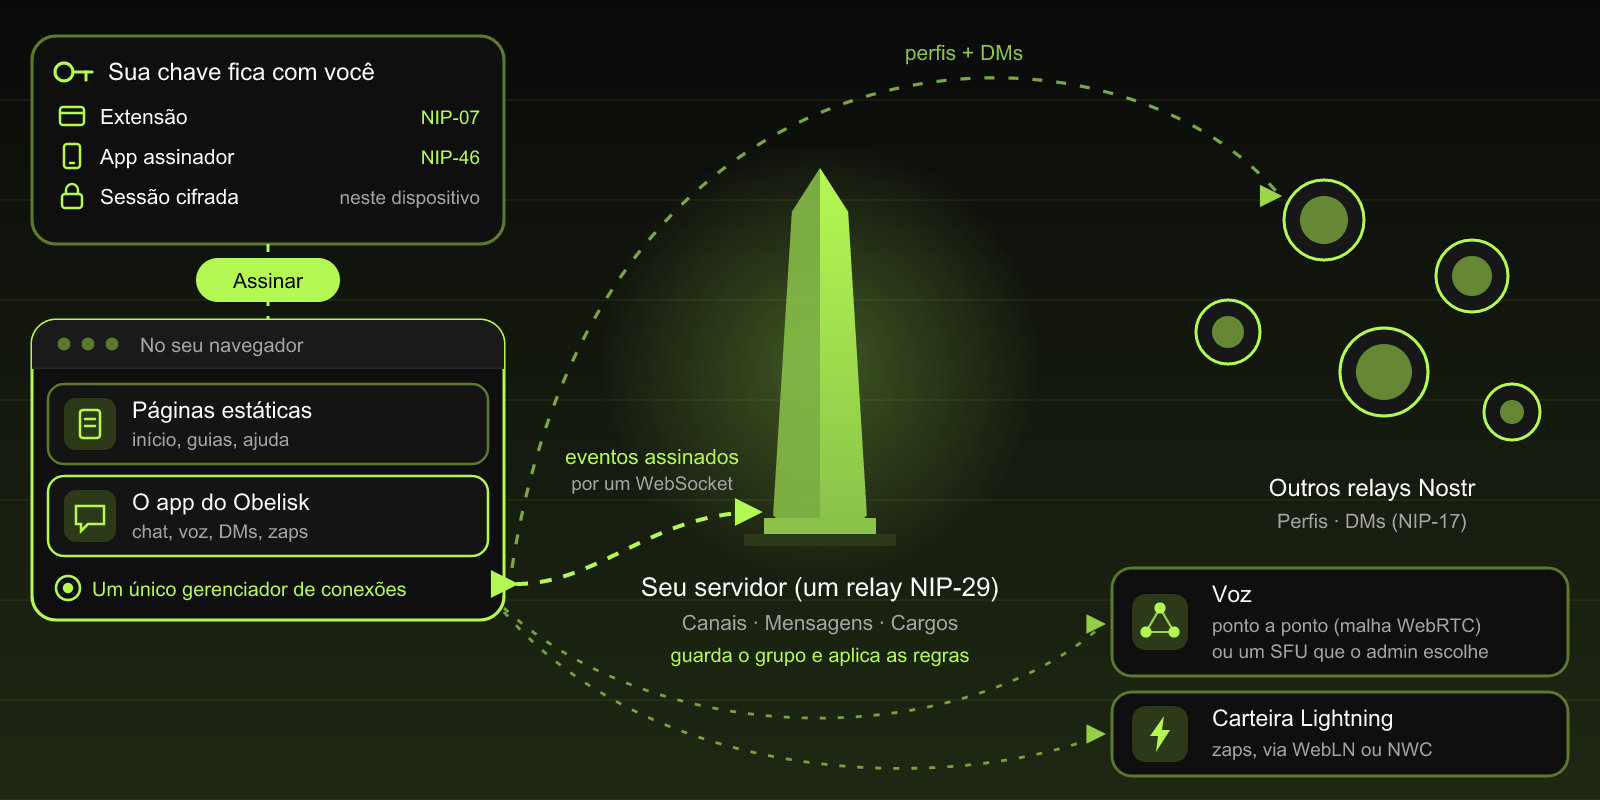
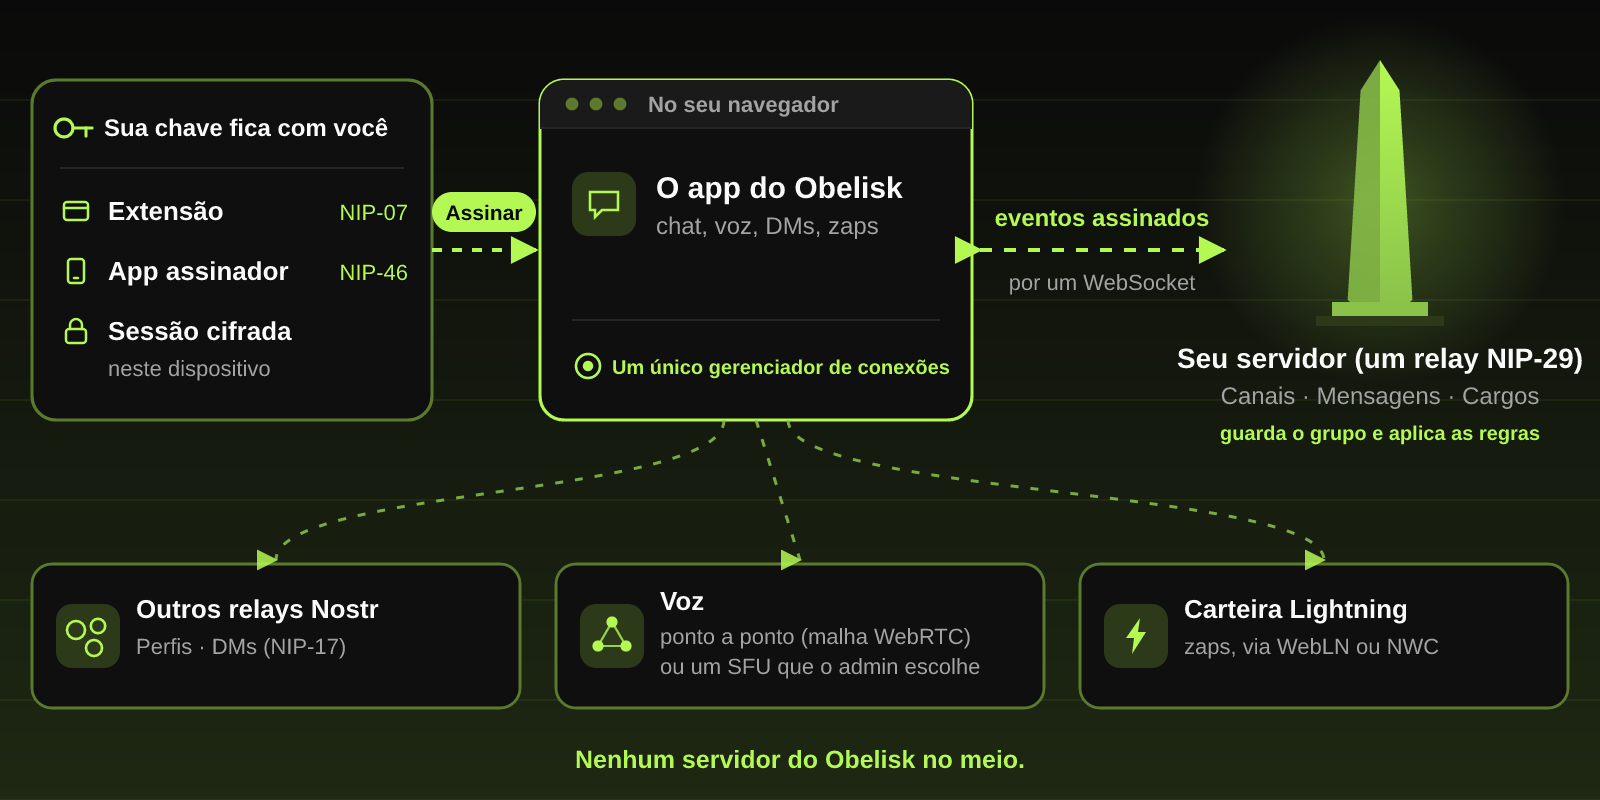
Guides: a clearer How Obelisk works diagram
Three columns read left to right (your key, signing, the app in your
browser, signed events over a WebSocket, your NIP-29 relay), what the app
reaches on its own in one row below (other relays, voice, the wallet), and
'No Obelisk server in between' spelled out. Labels at 10-15 px instead of
9-10.5, fitted in English, Spanish and Portuguese; the static-pages row and
the profiles curve are gone. Snapshots regenerated for the three languages
with an Arial-metric font, like the other guide images.

diff --git a/src/assets/illustrations/guides/heroes/HowObeliskWorksHero.tsx b/src/assets/illustrations/guides/heroes/HowObeliskWorksHero.tsx
@@ -52,42 +52,39 @@ export default function HowObeliskWorksHero() {
         ))}
       </g>
 
-      <ServerRelay />
       <KeyCard />
       <BrowserApp />
+      <ServerRelay />
       <Elsewhere />
 
+      {/* key -> app: the key signs, the app never holds it */}
+      <line x1="216" y1="125" x2="268" y2="125" stroke="#b4f953" strokeWidth="2" strokeDasharray="5 5"
+        className="animate-dash-flow" markerEnd="url(#how-arrow)" />
+      <rect x="216" y="96" width="52" height="20" rx="10" fill="#b4f953" />
+      <text x="242" y="110" textAnchor="middle" fontSize="10.5" fontWeight="700" fill="#0a0a0a">
+        {t('guides.art.howObeliskWorks.sign')}
+      </text>
+
       {/* app <-> server: signed events, straight over a WebSocket */}
-      <path
-        d="M258 292 C 300 292, 326 256, 380 256"
-        stroke="#b4f953" strokeWidth="2" fill="none" strokeDasharray="6 6"
-        className="animate-dash-flow"
-        markerStart="url(#how-arrow)" markerEnd="url(#how-arrow)"
-      />
-      <text x="326" y="232" textAnchor="middle" fontSize="10.5" fontWeight="700" fill="#b4f953">
+      <line x1="490" y1="125" x2="612" y2="125" stroke="#b4f953" strokeWidth="2" strokeDasharray="6 6"
+        className="animate-dash-flow" markerStart="url(#how-arrow)" markerEnd="url(#how-arrow)" />
+      <text x="551" y="113" textAnchor="middle" fontSize="12" fontWeight="700" fill="#b4f953">
         {t('guides.art.howObeliskWorks.flowSigned')}
       </text>
-      <text x="326" y="245" textAnchor="middle" fontSize="9.5" fill="#a3a3a3">
+      <text x="551" y="145" textAnchor="middle" fontSize="11" fill="#a3a3a3">
         {t('guides.art.howObeliskWorks.flowSocket')}
       </text>
 
-      {/* app -> other relays: the app fetches profiles and DMs itself */}
-      <path
-        d="M256 284 C 300 0, 560 0, 640 98"
-        stroke="#8bc34a" strokeWidth="1.6" fill="none" strokeDasharray="5 7" opacity="0.85"
-        className="animate-dash-flow"
-        style={{ animationDuration: '3s' } as React.CSSProperties}
-        markerEnd="url(#how-arrow)"
-      />
-      <text x="482" y="30" textAnchor="middle" fontSize="10.5" fontWeight="700" fill="#8bc34a">
-        {t('guides.art.howObeliskWorks.flowProfile')}
-      </text>
-
-      {/* app -> voice and wallet, outside the relays */}
-      <g stroke="#8bc34a" strokeWidth="1.4" fill="none" strokeDasharray="3 6" opacity="0.8">
-        <path d="M252 304 C 330 376, 480 376, 552 312" className="animate-dash-flow" markerEnd="url(#how-arrow)" />
-        <path d="M252 306 C 330 396, 480 396, 552 367" className="animate-dash-flow" markerEnd="url(#how-arrow)" />
+      {/* app -> what it reaches on its own: other relays, voice, the wallet */}
+      <g stroke="#8bc34a" strokeWidth="1.5" fill="none" strokeDasharray="4 6" opacity="0.85">
+        <path d="M362 210 C 362 248, 138 244, 138 280" className="animate-dash-flow" markerEnd="url(#how-arrow)" />
+        <path d="M378 210 L 400 280" className="animate-dash-flow" markerEnd="url(#how-arrow)" />
+        <path d="M394 210 C 394 248, 662 244, 662 280" className="animate-dash-flow" markerEnd="url(#how-arrow)" />
       </g>
+
+      <text x="400" y="384" textAnchor="middle" fontSize="12.5" fontWeight="700" fill="#b4f953">
+        {t('guides.art.howObeliskWorks.noServer')}
+      </text>
     </svg>
   );
 }

diff --git a/src/assets/illustrations/guides/how-it-works/BrowserApp.tsx b/src/assets/illustrations/guides/how-it-works/BrowserApp.tsx
@@ -1,39 +1,46 @@
 import { useTranslations } from 'next-intl';
-import BrowserAppRow from './BrowserAppRow';
+import BrowserRowGlyph from './BrowserRowGlyph';
 
 const DIM = '#5c7a2e';
 
 /**
- * The Obelisk web app as it runs: one browser window holding the static
- * pages and the app, and the app's one connection manager (the RelayHub),
- * which owns every relay socket the page opens.
+ * The Obelisk web app as it runs: a browser window holding the app, and the
+ * app's one connection manager (the RelayHub), which owns every relay socket
+ * the page opens.
  */
 export default function BrowserApp() {
   const t = useTranslations();
 
   return (
     <g>
-      <rect x="16" y="160" width="236" height="150" rx="12" fill="#0f0f0f" stroke="#b4f953" strokeWidth="1.6" />
-      <path d="M16 184 V172 a12 12 0 0 1 12 -12 H240 a12 12 0 0 1 12 12 V184 Z" fill="#1a1a1a" />
-      <line x1="16" y1="184" x2="252" y2="184" stroke="#262626" strokeWidth="1" />
-      {[32, 44, 56].map((cx) => (
-        <circle key={cx} cx={cx} cy="172" r="3.2" fill={DIM} />
+      <rect x="270" y="40" width="216" height="170" rx="12" fill="#0f0f0f" stroke="#b4f953" strokeWidth="1.6" />
+      <path d="M270 64 V52 a12 12 0 0 1 12 -12 H474 a12 12 0 0 1 12 12 V64 Z" fill="#1a1a1a" />
+      <line x1="270" y1="64" x2="486" y2="64" stroke="#262626" strokeWidth="1" />
+      {[286, 298, 310].map((cx) => (
+        <circle key={cx} cx={cx} cy="52" r="3.2" fill={DIM} />
       ))}
-      <text x="70" y="176" fontSize="10" fontWeight="600" fill="#a3a3a3">
+      <text x="324" y="56" fontSize="11" fontWeight="600" fill="#a3a3a3">
         {t('guides.art.howObeliskWorks.browser')}
       </text>
 
-      <BrowserAppRow y={192} title={t('guides.art.howObeliskWorks.pages')} sub={t('guides.art.howObeliskWorks.pagesSub')} glyph="page" />
-      <BrowserAppRow y={238} title={t('guides.art.howObeliskWorks.app')} sub={t('guides.art.howObeliskWorks.appSub')} glyph="chat" lit />
+      <rect x="286" y="86" width="32" height="32" rx="8" fill="#2d3a1a" />
+      <BrowserRowGlyph x={302} y={101} />
+      <text x="328" y="99" fontSize="15" fontWeight="700" fill="#fafafa">
+        {t('guides.art.howObeliskWorks.app')}
+      </text>
+      <text x="328" y="117" fontSize="12" fill="#a3a3a3">
+        {t('guides.art.howObeliskWorks.appSub')}
+      </text>
 
       {/* the connection manager every relay request goes through */}
-      <circle cx="34" cy="294" r="6" fill="none" stroke="#b4f953" strokeWidth="1.3" />
+      <line x1="286" y1="160" x2="470" y2="160" stroke="#262626" strokeWidth="1" />
+      <circle cx="294" cy="183" r="6" fill="none" stroke="#b4f953" strokeWidth="1.3" />
       <circle
-        cx="34" cy="294" r="2.6" fill="#b4f953"
+        cx="294" cy="183" r="2.6" fill="#b4f953"
         className="animate-dot-pulse"
-        style={{ transformOrigin: '34px 294px' } as React.CSSProperties}
+        style={{ transformOrigin: '294px 183px' } as React.CSSProperties}
       />
-      <text x="46" y="298" fontSize="10" fontWeight="700" fill="#b4f953">
+      <text x="306" y="187" fontSize="10" fontWeight="700" fill="#b4f953">
         {t('guides.art.howObeliskWorks.hub')}
       </text>
     </g>

diff --git a/src/assets/illustrations/guides/how-it-works/Elsewhere.tsx b/src/assets/illustrations/guides/how-it-works/Elsewhere.tsx
@@ -1,15 +1,8 @@
 import { useTranslations } from 'next-intl';
 import ElsewherePill from './ElsewherePill';
+import RelaysGlyph from './RelaysGlyph';
 import VoiceGlyph from './VoiceGlyph';
 import BoltGlyph from './BoltGlyph';
-
-const RELAYS = [
-  { cx: 662, cy: 110, r: 20 },
-  { cx: 736, cy: 138, r: 18 },
-  { cx: 692, cy: 186, r: 22 },
-  { cx: 614, cy: 166, r: 16 },
-  { cx: 756, cy: 206, r: 14 },
-];
 
 /**
  * What the app reaches on its own, beside the group's server: other Nostr
@@ -18,34 +11,22 @@ const RELAYS = [
  */
 export default function Elsewhere() {
   const t = useTranslations();
-
+  const head = { fontSize: 13, fontWeight: 700, fill: '#fafafa' };
+  const sub = { fontSize: 11, fill: '#a3a3a3' };
   return (
     <g>
-      {RELAYS.map((n, i) => (
-        <g key={i}>
-          <circle cx={n.cx} cy={n.cy} r={n.r} fill="#171717" stroke="#b4f953" strokeWidth="1.5" />
-          <circle
-            cx={n.cx} cy={n.cy} r={n.r - 8} fill="#b4f953" opacity="0.5"
-            className="animate-dot-pulse"
-            style={{ transformOrigin: `${n.cx}px ${n.cy}px`, animationDelay: `${i * 0.4}s` } as React.CSSProperties}
-          />
-        </g>
-      ))}
-      <text x="686" y="248" textAnchor="middle" fontSize="12" fontWeight="700" fill="#fafafa">
-        {t('guides.art.howObeliskWorks.relays')}
-      </text>
-      <text x="686" y="264" textAnchor="middle" fontSize="10" fill="#a3a3a3">
-        {t('guides.art.howObeliskWorks.relayRoles')}
-      </text>
-
-      <ElsewherePill y={284} h={54} icon={<VoiceGlyph />}>
-        <text x="606" y="301" fontSize="11.5" fontWeight="700" fill="#fafafa">{t('guides.art.howObeliskWorks.voice')}</text>
-        <text x="606" y="316" fontSize="9.5" fill="#a3a3a3">{t('guides.art.howObeliskWorks.voiceMesh')}</text>
-        <text x="606" y="329" fontSize="9.5" fill="#a3a3a3">{t('guides.art.howObeliskWorks.voiceSfu')}</text>
+      <ElsewherePill x={16} w={244} icon={<RelaysGlyph />}>
+        <text x="68" y="309" {...head}>{t('guides.art.howObeliskWorks.relays')}</text>
+        <text x="68" y="327" {...sub}>{t('guides.art.howObeliskWorks.relayRoles')}</text>
       </ElsewherePill>
-      <ElsewherePill y={346} h={42} icon={<BoltGlyph />}>
-        <text x="606" y="363" fontSize="11.5" fontWeight="700" fill="#fafafa">{t('guides.art.howObeliskWorks.wallet')}</text>
-        <text x="606" y="378" fontSize="9.5" fill="#a3a3a3">{t('guides.art.howObeliskWorks.walletDoes')}</text>
+      <ElsewherePill x={278} w={244} icon={<VoiceGlyph />}>
+        <text x="330" y="305" {...head}>{t('guides.art.howObeliskWorks.voice')}</text>
+        <text x="330" y="322" {...sub}>{t('guides.art.howObeliskWorks.voiceMesh')}</text>
+        <text x="330" y="337" {...sub}>{t('guides.art.howObeliskWorks.voiceSfu')}</text>
+      </ElsewherePill>
+      <ElsewherePill x={540} w={244} icon={<BoltGlyph />}>
+        <text x="592" y="309" {...head}>{t('guides.art.howObeliskWorks.wallet')}</text>
+        <text x="592" y="327" {...sub}>{t('guides.art.howObeliskWorks.walletDoes')}</text>
       </ElsewherePill>
     </g>
   );

diff --git a/src/assets/illustrations/guides/how-it-works/KeyCard.tsx b/src/assets/illustrations/guides/how-it-works/KeyCard.tsx
@@ -1,40 +1,32 @@
 import { useTranslations } from 'next-intl';
-import KeyCardRow from './KeyCardRow';
 import KeyGlyph from './KeyGlyph';
+import KeyCardRow from './KeyCardRow';
 
 const DIM = '#5c7a2e';
 
 /**
  * Where the key lives: never on a server. A browser extension (NIP-07), a
  * signer app over NIP-46, or the encrypted session on this device (an nsec
- * sealed by the session vault). The "Sign" step happens here, for the app.
+ * sealed by the session vault).
  */
 export default function KeyCard() {
   const t = useTranslations();
-  const mono = { fontSize: 9.5, fill: '#b4f953', fontFamily: 'monospace', textAnchor: 'end' as const };
-
+  const mono = { fontSize: 11, fill: '#b4f953', fontFamily: 'monospace', textAnchor: 'end' as const };
   return (
     <g>
-      <rect x="16" y="18" width="236" height="104" rx="12" fill="#0f0f0f" stroke={DIM} strokeWidth="1.6" />
-      <KeyGlyph x={36} y={36} />
-      <text x="54" y="40" fontSize="12" fontWeight="700" fill="#fafafa">
+      <rect x="16" y="40" width="200" height="170" rx="12" fill="#0f0f0f" stroke={DIM} strokeWidth="1.6" />
+      <KeyGlyph x={36} y={64} />
+      <text x="52" y="68" fontSize="12" fontWeight="700" fill="#fafafa">
         {t('guides.art.howObeliskWorks.key')}
       </text>
-
-      <KeyCardRow y={62} glyph="ext" label={t('guides.art.howObeliskWorks.extension')} />
-      <text x="240" y="62" {...mono}>NIP-07</text>{/* i18n-exempt: protocol name */}
-      <KeyCardRow y={82} glyph="phone" label={t('guides.art.howObeliskWorks.signerApp')} />
-      <text x="240" y="82" {...mono}>NIP-46</text>{/* i18n-exempt: protocol name */}
-      <KeyCardRow y={102} glyph="lock" label={t('guides.art.howObeliskWorks.session')} />
-      <text x="240" y="102" textAnchor="end" fontSize="9.5" fill="#a3a3a3">
+      <line x1="30" y1="84" x2="202" y2="84" stroke="#262626" strokeWidth="1" />
+      <KeyCardRow y={110} glyph="ext" label={t('guides.art.howObeliskWorks.extension')} />
+      <text x="204" y="110" {...mono}>NIP-07</text>{/* i18n-exempt: protocol name */}
+      <KeyCardRow y={140} glyph="phone" label={t('guides.art.howObeliskWorks.signerApp')} />
+      <text x="204" y="140" {...mono}>NIP-46</text>{/* i18n-exempt: protocol name */}
+      <KeyCardRow y={170} glyph="lock" label={t('guides.art.howObeliskWorks.session')} />
+      <text x="54" y="188" fontSize="11" fill="#a3a3a3">
         {t('guides.art.howObeliskWorks.sessionSub')}
-      </text>
-
-      {/* the key signs for the app below */}
-      <line x1="134" y1="122" x2="134" y2="160" stroke="#b4f953" strokeWidth="1.6" strokeDasharray="4 5" className="animate-dash-flow" />
-      <rect x="98" y="129" width="72" height="22" rx="11" fill="#b4f953" />
-      <text x="134" y="144" textAnchor="middle" fontSize="10.5" fontWeight="700" fill="#0a0a0a">
-        {t('guides.art.howObeliskWorks.sign')}
       </text>
     </g>
   );

diff --git a/src/assets/illustrations/guides/how-it-works/ServerRelay.tsx b/src/assets/illustrations/guides/how-it-works/ServerRelay.tsx
@@ -4,32 +4,32 @@ import { useTranslations } from 'next-intl';
  * The community's server, drawn as the Obelisco: in Obelisk the "server"
  * (what the app's Server settings configure) is the NIP-29 relay itself. It
  * stores the channels, messages and roles and enforces the group's rules.
- * The silhouette's paths match src/components/ObeliskIcon.tsx; the 512 viewBox
- * is scaled so the tip sits at (410, 84) and the base at (410, 259).
+ * The silhouette's paths match src/assets/brand/ObeliskIcon.tsx; the 512
+ * viewBox is scaled so the tip sits at (690, 30) and the base at (690, 151).
  */
 export default function ServerRelay() {
   const t = useTranslations();
 
   return (
     <g>
-      <circle cx="410" cy="180" r="110" fill="url(#how-server-glow)"
+      <circle cx="690" cy="100" r="92" fill="url(#how-server-glow)"
         className="animate-glow-pulse"
-        style={{ transformOrigin: '410px 180px', transformBox: 'fill-box' } as React.CSSProperties}
+        style={{ transformOrigin: '690px 100px', transformBox: 'fill-box' } as React.CSSProperties}
       />
-      <g transform="translate(309.9 77.7) scale(0.391)">
+      <g transform="translate(620.9 25.7) scale(0.27)">
         <path d="M 256,16 L 220,72 L 196,460 L 200,464 L 256,464 L 256,72 Z" fill="#8bc34a" opacity="0.85" />
         <path d="M 256,16 L 292,72 L 316,460 L 312,464 L 256,464 L 256,72 Z" fill="url(#how-obelisk-body)" />
       </g>
-      <rect x="382" y="259" width="56" height="8" fill="#8bc34a" />
-      <rect x="372" y="267" width="76" height="6" fill="#2d3a1a" />
+      <rect x="666" y="151" width="48" height="7" fill="#8bc34a" />
+      <rect x="658" y="158" width="64" height="5" fill="#2d3a1a" />
 
-      <text x="410" y="298" textAnchor="middle" fontSize="13" fontWeight="700" fill="#fafafa">
+      <text x="690" y="184" textAnchor="middle" fontSize="14" fontWeight="700" fill="#fafafa">
         {t('guides.art.howObeliskWorks.server')}
       </text>
-      <text x="410" y="315" textAnchor="middle" fontSize="10.5" fill="#a3a3a3">
+      <text x="690" y="202" textAnchor="middle" fontSize="12" fill="#a3a3a3">
         {t('guides.art.howObeliskWorks.serverRoles')}
       </text>
-      <text x="410" y="331" textAnchor="middle" fontSize="10" fontWeight="600" fill="#b4f953">
+      <text x="690" y="220" textAnchor="middle" fontSize="10" fontWeight="600" fill="#b4f953">
         {t('guides.art.howObeliskWorks.serverDoes')}
       </text>
     </g>

diff --git a/src/assets/illustrations/guides/how-it-works/ElsewherePill.tsx b/src/assets/illustrations/guides/how-it-works/ElsewherePill.tsx
@@ -2,14 +2,13 @@ import type { ReactNode } from 'react';
 
 const DIM = '#5c7a2e';
 
-/** A rounded card on the right: an icon tile and the lines passed in as children. */
-export default function ElsewherePill({ y, h, icon, children }: { y: number; h: number; icon: ReactNode; children: ReactNode }) {
-  const cy = y + h / 2;
+/** A card in the bottom row: an icon tile and the lines passed in as children. */
+export default function ElsewherePill({ x, w, icon, children }: { x: number; w: number; icon: ReactNode; children: ReactNode }) {
   return (
     <g>
-      <rect x="556" y={y} width="228" height={h} rx="10" fill="#0f0f0f" stroke={DIM} strokeWidth="1.4" />
-      <rect x="566" y={cy - 14} width="28" height="28" rx="7" fill="#2d3a1a" />
-      <g transform={`translate(580 ${cy})`}>{icon}</g>
+      <rect x={x} y="282" width={w} height="72" rx="10" fill="#0f0f0f" stroke={DIM} strokeWidth="1.4" />
+      <rect x={x + 12} y="302" width="32" height="32" rx="8" fill="#2d3a1a" />
+      <g transform={`translate(${x + 28} 318)`}>{icon}</g>
       {children}
     </g>
   );

diff --git a/src/assets/illustrations/guides/how-it-works/BrowserRowGlyph.tsx b/src/assets/illustrations/guides/how-it-works/BrowserRowGlyph.tsx
@@ -1,18 +1,9 @@
-/** The tiny line icon on a browser row: a page, or a chat bubble. */
-export default function BrowserRowGlyph({ kind, x, y }: { kind: 'page' | 'chat'; x: number; y: number }) {
-  const stroke = { stroke: '#b4f953', strokeWidth: 1.3, fill: 'none', strokeLinecap: 'round' as const };
-  if (kind === 'page') {
-    return (
-      <g {...stroke}>
-        <rect x={x - 5} y={y - 7} width="10" height="14" rx="1.5" />
-        <line x1={x - 2.5} y1={y - 2.5} x2={x + 2.5} y2={y - 2.5} />
-        <line x1={x - 2.5} y1={y + 1} x2={x + 2.5} y2={y + 1} />
-      </g>
-    );
-  }
+/** The line icon on the app tile: a chat bubble. */
+export default function BrowserRowGlyph({ x, y }: { x: number; y: number }) {
   return (
-    <g {...stroke}>
-      <path d={`M${x - 7} ${y - 5} h14 v9 h-8 l-3.5 3.5 v-3.5 h-2.5 z`} />
-    </g>
+    <path
+      d={`M${x - 7} ${y - 5} h14 v9 h-8 l-3.5 3.5 v-3.5 h-2.5 z`}
+      stroke="#b4f953" strokeWidth={1.3} fill="none" strokeLinecap="round"
+    />
   );
 }

diff --git a/src/assets/illustrations/guides/how-it-works/KeyCardRow.tsx b/src/assets/illustrations/guides/how-it-works/KeyCardRow.tsx
@@ -4,8 +4,8 @@ import KeyRowGlyph from './KeyRowGlyph';
 export default function KeyCardRow({ y, glyph, label }: { y: number; glyph: 'ext' | 'phone' | 'lock'; label: string }) {
   return (
     <g>
-      <KeyRowGlyph kind={glyph} x={36} y={y - 4} />
-      <text x="50" y={y} fontSize="10.5" fontWeight="600" fill="#fafafa">
+      <KeyRowGlyph kind={glyph} x={38} y={y - 4.5} />
+      <text x="54" y={y} fontSize="13" fontWeight="600" fill="#fafafa">
         {label}
       </text>
     </g>

diff --git a/src/assets/illustrations/guides/how-it-works/RelaysGlyph.tsx b/src/assets/illustrations/guides/how-it-works/RelaysGlyph.tsx
@@ -1,0 +1,11 @@
+/** A few relays side by side: other Nostr relays. */
+export default function RelaysGlyph() {
+  const nodes: [number, number, number][] = [[-6, -3, 4.5], [5, -5, 3.6], [3, 6, 4]];
+  return (
+    <g>
+      {nodes.map(([cx, cy, r]) => (
+        <circle key={`${cx},${cy}`} cx={cx} cy={cy} r={r} fill="none" stroke="#b4f953" strokeWidth="1.3" />
+      ))}
+    </g>
+  );
+}
